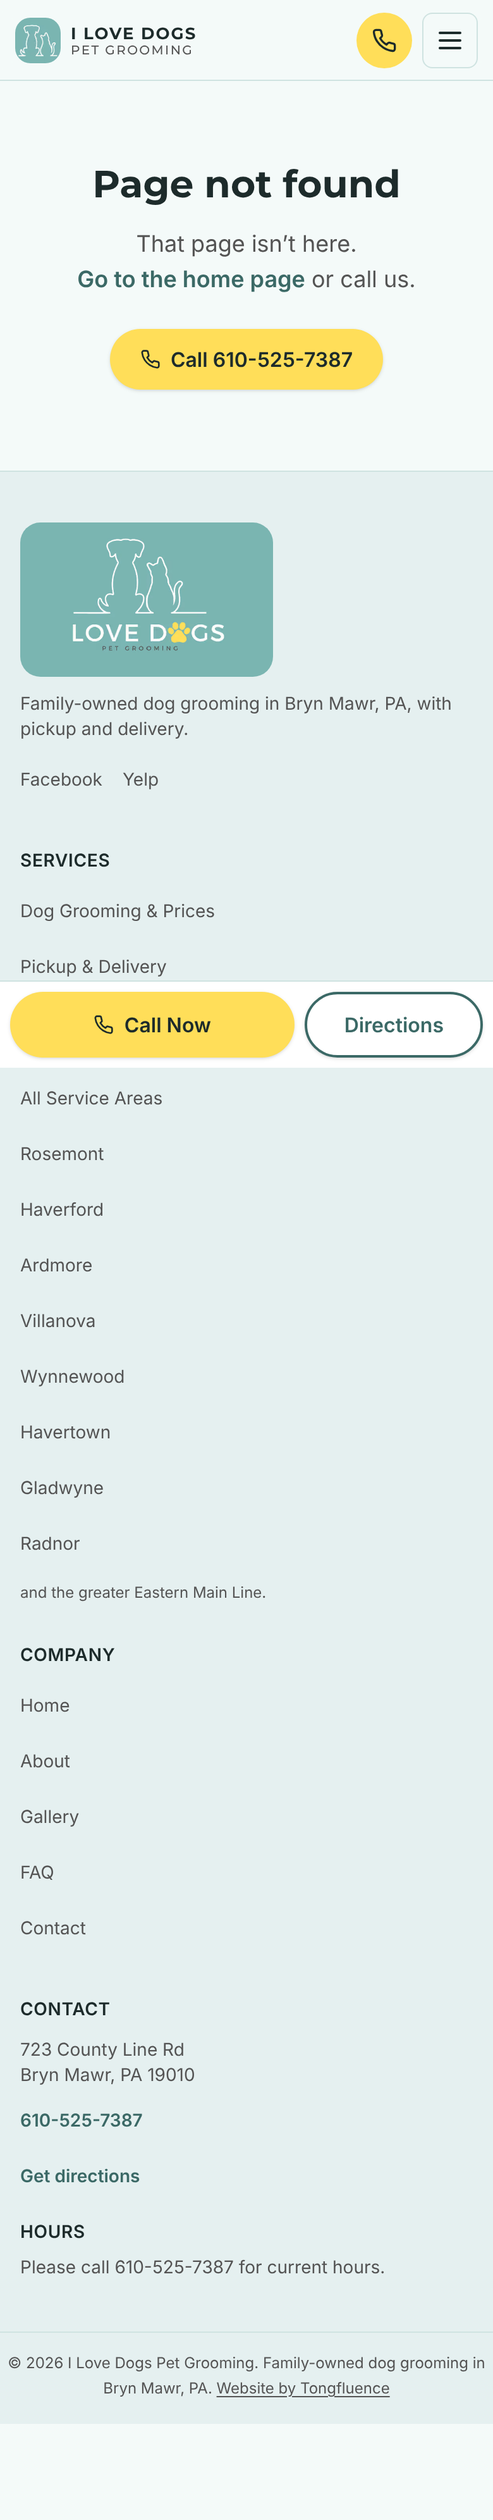
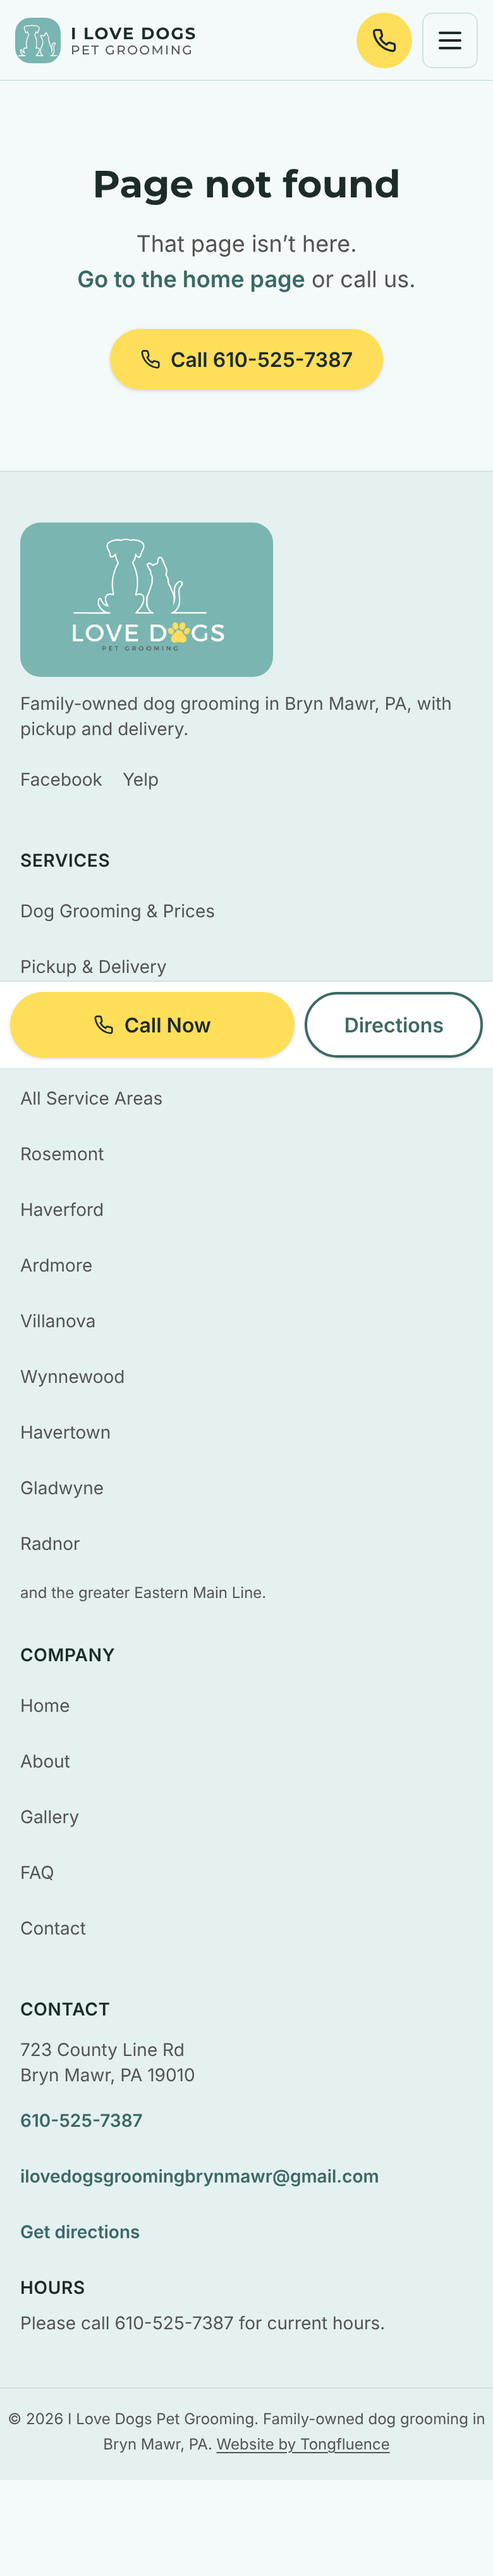
I Love Dogs: add email and mother-daughter detail from the current site
From the client's current site (www.ilovedogsgrooming.com), read through
search-engine results because this environment blocks the site itself:

- Email ilovedogsgroomingbrynmawr@gmail.com: on the Contact page (new
  card), in the footer, in the LocalBusiness schema, and in a new FAQ.
  Email clicks are tracked as email_click.
- Theresa and Jolie are mother and daughter, and Jolie grew up working
  in the salon beside her mother: on Home, About, the trust grid, photo
  captions and alt text, and a new FAQ "Who will groom my dog?".

Not added: "Best of Philly / Best of the Main Line" still has no year or
publication. The site lists no hours.

QA: email is now checked (exact mailto and schema value) instead of
banned; FAQ count 10. FAQ answers now wrap long words, which fixes a 40px
overflow at 320px from the email address.

Claude-Session: https://claude.ai/code/session_014PeHDi31gYETWVDRHtoZgg

diff --git a/i-love-dogs/lib/site-data.ts b/i-love-dogs/lib/site-data.ts
@@ -1,9 +1,10 @@
 // Central, single source of truth for every verified I Love Dogs Pet Grooming
 // fact used across the site. Sourced from the build brief (current and older
-// client websites, Google, Yelp, Facebook). Same shape as the Pampered Puppies
-// app, but do not add a fact that is not in the brief: no hours, ratings,
-// review counts, testimonials, awards, business age, email, booking widget,
-// photos, or services beyond the three packages and pickup and delivery.
+// client websites, Google, Yelp, Facebook), plus the email address and the
+// mother-daughter relationship from the client's current site. Same shape as
+// the Pampered Puppies app, but do not add an unverified fact: no hours,
+// ratings, review counts, testimonials, awards, business age, booking widget,
+// or services beyond the three packages and pickup and delivery.
 
 // Production domain is owner-supplied and served on www. Canonicals, og:url,
 // schema, the sitemap and robots.txt must all name that host, so a bare
@@ -18,6 +19,7 @@ export const business = {
   phoneDisplay: "610-525-7387",
   phoneHref: "tel:+16105257387",
   phoneE164: "+16105257387",
+  email: "ilovedogsgroomingbrynmawr@gmail.com",
   addressLine1: "723 County Line Rd",
   addressCity: "Bryn Mawr",
   addressState: "PA",
@@ -36,6 +38,9 @@ export const business = {
 export const people = {
   theresa: "Theresa has over 50 years of experience caring for dogs.",
   jolie: "Groomer Jolie has 15 years of professional grooming experience.",
+  // From the client's current site.
+  family: "Theresa and her daughter Jolie work side by side as a mother-daughter team.",
+  jolieGrewUp: "Jolie grew up working in the salon beside her mother.",
 } as const;
 
 // Towns served, nearest first. The first five are from the client's older
@@ -96,7 +101,7 @@ export const trustPoints = [
   },
   {
     title: "Family-owned",
-    body: "I Love Dogs is family-owned and run by Bob and Theresa Pelletier.",
+    body: "I Love Dogs is family-owned and run by Bob and Theresa Pelletier. Theresa grooms alongside her daughter Jolie.",
   },
   {
     title: "Over 50 years with dogs",
@@ -168,6 +173,16 @@ export const faqs = [
   {
     question: "How do I book?",
     answer: "Call 610-525-7387. Please ask about current hours when you call.",
+  },
+  {
+    question: "Who will groom my dog?",
+    answer:
+      "Theresa Pelletier, who has over 50 years of experience caring for dogs, and her daughter Jolie, who has 15 years of professional grooming experience. They work side by side as a mother-daughter team.",
+  },
+  {
+    question: "Can I email you?",
+    answer:
+      "Yes, at ilovedogsgroomingbrynmawr@gmail.com. To book, or to check current hours, a phone call to 610-525-7387 is fastest.",
   },
 ] as const;
 
@@ -279,7 +294,7 @@ export const companyNav: NavItem[] = [
 
 // Client-supplied photos (Google Drive "I Love Dogs Grooming" folder), with
 // EXIF/GPS stripped. The people were identified by the owner's agency:
-// Theresa Pelletier in three photos, groomer Jolie with Theresa in one.
+// Theresa Pelletier in three photos, her daughter Jolie with her in one.
 // Alt text describes only what is visible; no breeds are guessed.
 export type Photo = { src: string; width: number; height: number; alt: string };
 
@@ -306,7 +321,7 @@ export const teamPhotos = {
     src: "/images/jolie-and-theresa-pelletier.jpg",
     width: 1320,
     height: 1369,
-    alt: "Groomer Jolie and Theresa Pelletier smiling together",
+    alt: "Groomer Jolie and her mother, Theresa Pelletier, smiling together",
   },
 } satisfies Record<string, Photo>;
 

diff --git a/i-love-dogs/app/(site)/contact/page.tsx b/i-love-dogs/app/(site)/contact/page.tsx
@@ -1,13 +1,14 @@
 import { business, PATHS, SITE_URL } from "@/lib/site-data";
 import { pageMetadata } from "@/lib/metadata";
-import { CallButton, DirectionsButton, DirectionsLink, PhoneLink } from "@/components/CTAButton";
+import { CallButton, DirectionsButton, DirectionsLink, EmailLink, PhoneLink } from "@/components/CTAButton";
 import { Breadcrumbs } from "@/components/Breadcrumbs";
 import { JsonLd, breadcrumbSchema } from "@/lib/schema";
 import { Eyebrow } from "@/components/Eyebrow";
 
 export const metadata = pageMetadata({
   title: "Contact I Love Dogs Pet Grooming | Bryn Mawr, PA",
-  description: "Call I Love Dogs Pet Grooming at 610-525-7387 or visit 723 County Line Rd, Bryn Mawr, PA 19010.",
+  description:
+    "Call I Love Dogs Pet Grooming at 610-525-7387, email us, or visit 723 County Line Rd, Bryn Mawr, PA 19010.",
   path: PATHS.contact,
 });
 
@@ -33,7 +34,7 @@ export default function ContactPage() {
           </div>
         </div>
 
-        <div className="mx-auto mt-10 grid max-w-4xl gap-6 md:grid-cols-3">
+        <div className="mx-auto mt-10 grid max-w-5xl gap-6 sm:grid-cols-2 lg:grid-cols-4">
           <div className="rounded-2xl border border-border bg-white p-6 shadow-sm">
             <h2 className="font-display text-lg font-bold text-ink">Address</h2>
             <address className="mt-3 not-italic text-ink-soft">
@@ -50,6 +51,11 @@ export default function ContactPage() {
           <div className="rounded-2xl border border-border bg-white p-6 shadow-sm">
             <h2 className="font-display text-lg font-bold text-ink">Phone</h2>
             <PhoneLink location="contact_phone" className="mt-2 inline-flex min-h-[44px] items-center" />
+            <p className="mt-1 text-sm text-ink-soft">The fastest way to book.</p>
+          </div>
+          <div className="rounded-2xl border border-border bg-white p-6 shadow-sm">
+            <h2 className="font-display text-lg font-bold text-ink">Email</h2>
+            <EmailLink location="contact_email" className="mt-2 inline-flex min-h-[44px] items-center" />
           </div>
         </div>
       </section>

diff --git a/i-love-dogs/app/(site)/page.tsx b/i-love-dogs/app/(site)/page.tsx
@@ -136,7 +136,8 @@ export default function HomePage() {
               Family-Owned, With Decades of Experience
             </h2>
             <p className="mt-4 text-ink-soft leading-relaxed">
-              I Love Dogs is family-owned and run by {business.owners}. {people.theresa} {people.jolie}
+              I Love Dogs is family-owned and run by {business.owners}. {people.family} {people.theresa}{" "}
+              {people.jolie}
             </p>
             <ul className="mt-5 flex flex-wrap gap-2">
               {badges.map((b) => (
@@ -155,7 +156,7 @@ export default function HomePage() {
               </Link>
             </div>
           </div>
-          <Photo photo={teamPhotos.jolieAndTheresa} aspect="square" caption="Groomer Jolie (left) and Theresa Pelletier." />
+          <Photo photo={teamPhotos.jolieAndTheresa} aspect="square" caption="Groomer Jolie (left) and her mother, Theresa Pelletier." />
         </div>
       </section>
 

diff --git a/i-love-dogs/app/(site)/about/page.tsx b/i-love-dogs/app/(site)/about/page.tsx
@@ -69,9 +69,11 @@ export default function AboutPage() {
             <p className="mt-4 text-ink-soft leading-relaxed">
               I Love Dogs is family-owned and run by {business.owners}.
               <br />
+              {people.family}
+              <br />
               {people.theresa}
               <br />
-              {people.jolie}
+              {people.jolie} {people.jolieGrewUp}
             </p>
           </div>
           <div>
@@ -104,7 +106,7 @@ export default function AboutPage() {
             photo={teamPhotos.jolieAndTheresa}
             aspect="square"
             sizes="(max-width: 640px) 100vw, 33vw"
-            caption="Groomer Jolie (left), with 15 years of professional grooming experience, and Theresa Pelletier."
+            caption="Groomer Jolie (left), with 15 years of professional grooming experience, and her mother, Theresa Pelletier."
           />
           <Photo
             photo={teamPhotos.theresaHug}

diff --git a/i-love-dogs/components/Footer.tsx b/i-love-dogs/components/Footer.tsx
@@ -1,7 +1,7 @@
 import Image from "next/image";
 import Link from "next/link";
 import { business, companyNav, serviceNav, areaNavLinks, serviceAreaGeneral } from "@/lib/site-data";
-import { DirectionsLink, PhoneLink } from "./CTAButton";
+import { DirectionsLink, EmailLink, PhoneLink } from "./CTAButton";
 
 export function Footer() {
   return (
@@ -50,6 +50,9 @@ export function Footer() {
           <ul className="mt-1 text-sm">
             <li>
               <PhoneLink location="footer" className="inline-flex min-h-[44px] items-center" />
+            </li>
+            <li>
+              <EmailLink location="footer" className="inline-flex min-h-[44px] items-center" />
             </li>
             <li>
               <DirectionsLink location="footer" className="inline-flex min-h-[44px] items-center" />

diff --git a/i-love-dogs/lib/schema.tsx b/i-love-dogs/lib/schema.tsx
@@ -1,6 +1,6 @@
 import { business, faqs, packages, serviceAreas, SITE_URL, teamPhotos, beforeAfterPhotos } from "./site-data";
 
-// NOTE: No openingHours (Google and Yelp disagree), email, priceRange,
+// NOTE: No openingHours (Google and Yelp disagree), priceRange,
 // AggregateRating or Review. Ratings disagree across platforms and no review
 // has been cleared for reuse. `logo` and `image` are the client's own files.
 
@@ -40,6 +40,7 @@ export function localBusinessSchema() {
     name: business.name,
     url: `${SITE_URL}/`,
     telephone: business.phoneE164,
+    email: business.email,
     address: postalAddress,
     logo: `${SITE_URL}/images/logo.png`,
     image: [teamPhotos.theresaHug.src, teamPhotos.jolieAndTheresa.src, beforeAfterPhotos[0].src].map((src) => `${SITE_URL}${src}`),

diff --git a/i-love-dogs/app/(site)/faq/page.tsx b/i-love-dogs/app/(site)/faq/page.tsx
@@ -50,7 +50,7 @@ export default function FaqPage() {
           {faqs.map((item) => (
             <div key={item.question} className="rounded-2xl border border-border bg-white p-6 shadow-sm">
               <dt className="font-display text-lg font-bold text-ink">{item.question}</dt>
-              <dd className="mt-2 text-ink-soft leading-relaxed">{item.answer}</dd>
+              <dd className="mt-2 text-ink-soft leading-relaxed [overflow-wrap:anywhere]">{item.answer}</dd>
             </div>
           ))}
         </dl>

diff --git a/i-love-dogs/components/CTAButton.tsx b/i-love-dogs/components/CTAButton.tsx
@@ -93,6 +93,18 @@ export function DirectionsLink({ location, className = "" }: { location: string;
   );
 }
 
+export function EmailLink({ location, className = "" }: { location: string; className?: string }) {
+  return (
+    <a
+      href={`mailto:${business.email}`}
+      onClick={() => trackEvent("email_click", { location })}
+      className={`break-all font-semibold text-brand hover:underline ${className}`}
+    >
+      {business.email}
+    </a>
+  );
+}
+
 function PhoneIcon() {
   return (
     <svg

diff --git a/i-love-dogs/components/FaqBlock.tsx b/i-love-dogs/components/FaqBlock.tsx
@@ -31,7 +31,7 @@ export function FaqBlock({
                 +
               </span>
             </summary>
-            <p className="mt-3 text-sm text-ink-soft leading-relaxed">{item.answer}</p>
+            <p className="mt-3 text-sm text-ink-soft leading-relaxed [overflow-wrap:anywhere]">{item.answer}</p>
           </details>
         ))}
       </div>

diff --git a/i-love-dogs/README.md b/i-love-dogs/README.md
@@ -40,9 +40,11 @@ browser.
 
 ## Structure
 
-- `lib/site-data.ts`: every business fact (NAP, owners, experience, towns,
-  packages, prices, FAQ, trust points, process steps, town pages). Change
-  facts here only.
+- `lib/site-data.ts`: every business fact (name, address, phone, email,
+  owners, experience, towns, packages, prices, FAQ, trust points, process
+  steps, town pages). Change facts here only. The email address and the
+  mother-daughter relationship come from the client's current site, read
+  through search-engine results because this environment blocks the site.
 - `lib/schema.tsx`: JSON-LD builders. LocalBusiness and WebSite on every page
   (from `app/(site)/layout.tsx`), BreadcrumbList on every page, Service on
   `/dog-grooming/`, `/pickup-and-delivery/` and each town page, FAQPage on
@@ -79,7 +81,7 @@ browser.
 ## Deliberately not on the site
 
 Left out until the owner confirms them: hours (Google and Yelp disagree),
-ratings, review counts, testimonials, awards, business age, email, online
+ratings, review counts, testimonials, awards, business age and online
 booking. That is why this app has no Reviews, Blog, Membership or
 Employment pages, which the Pampered Puppies skeleton has.
 
